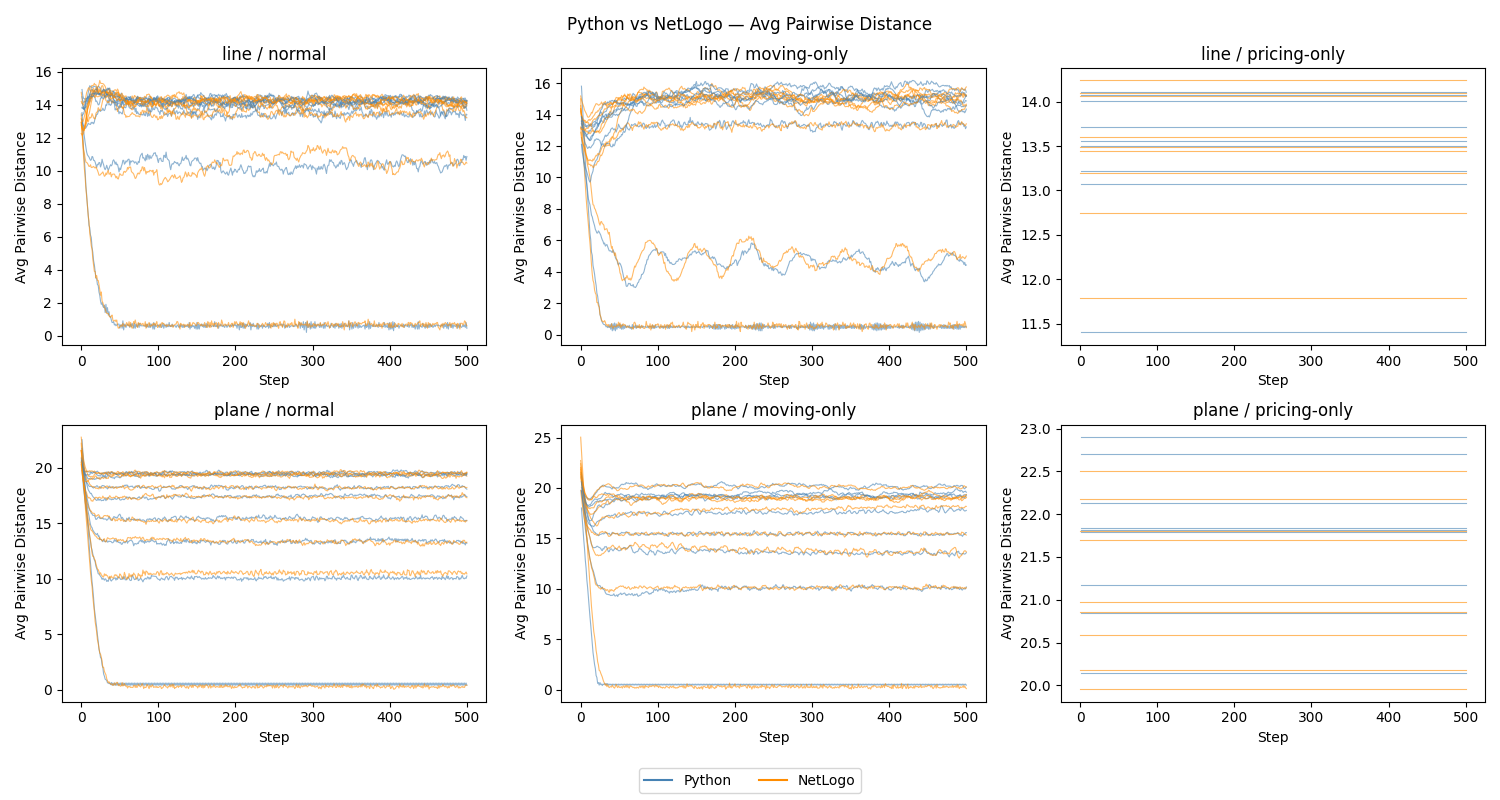
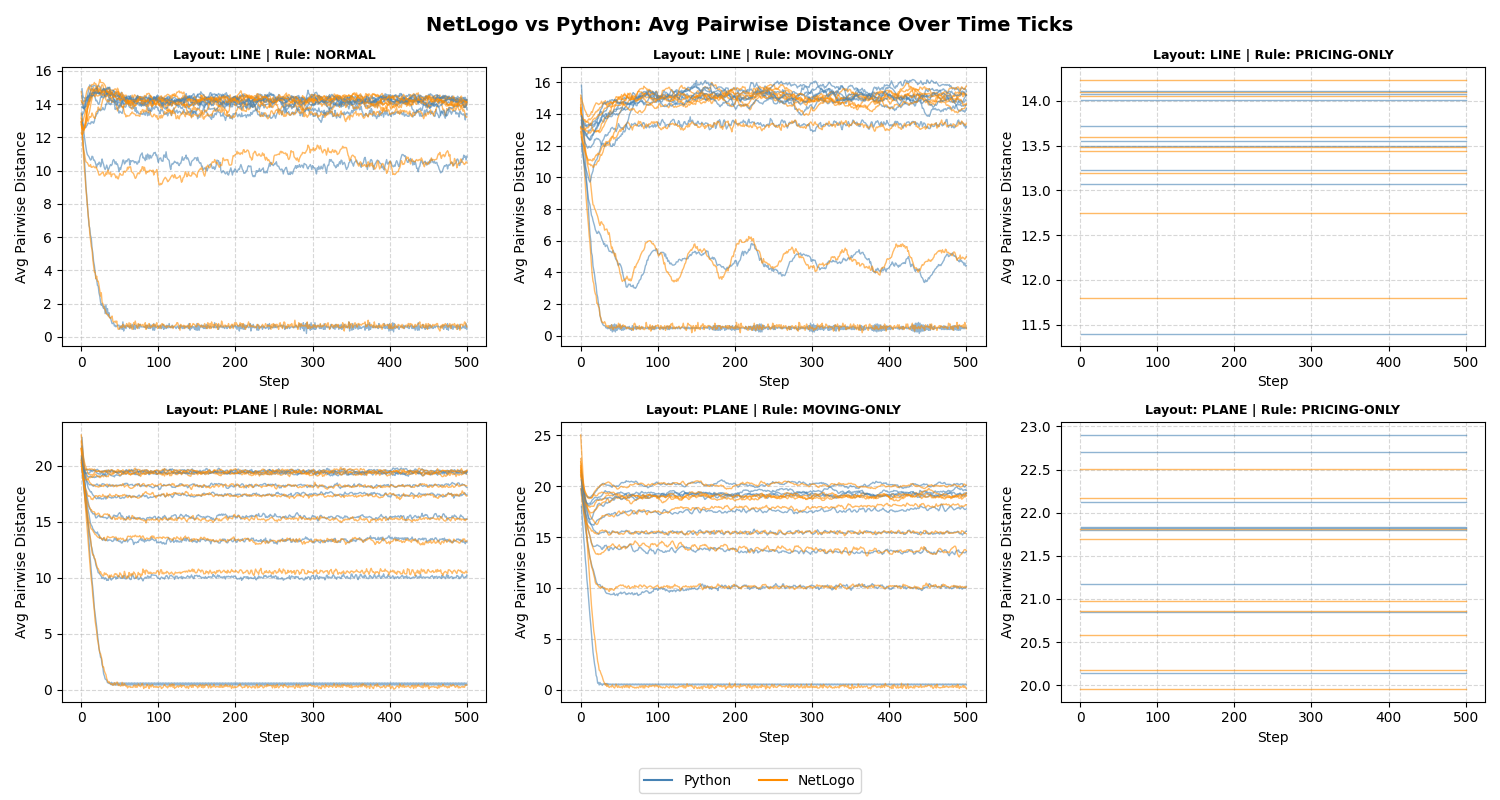
docs: clean up formatting of charts to be consistent

diff --git a/results/chart_generator_experiment1.py b/results/chart_generator_experiment1.py
@@ -53,7 +53,7 @@ def aggregate_metrics(df: pd.DataFrame) -> pd.DataFrame:
 def plot_experiment1(agg: pd.DataFrame, source_label: str):
     for metric, ylabel in [("avg_pairwise_dist", "Avg Pairwise Distance"), ("avg_price_diff", "Avg Pairwise Price Diff")]:
         fig, axes = plt.subplots(2, 3, figsize=(15, 8), sharey=False)
-        fig.suptitle(f"{source_label} — {ylabel} (Experiment 1)")
+        fig.suptitle(f"Python Replication: {ylabel} Over Time Ticks", fontsize=14, weight='bold')
 
         for row, layout in enumerate(LAYOUTS):
             for col, rule in enumerate(RULES):
@@ -62,10 +62,11 @@ def plot_experiment1(agg: pd.DataFrame, source_label: str):
                 for n in STORE_COUNTS:
                     run_data = subset[subset["number-of-stores"] == n]
                     ax.plot(run_data["[step]"], run_data[metric], label=f"{n} stores")
-                ax.set_title(f"{layout} / {rule}")
+                ax.set_title(f"Layout: {layout.upper()} | Rule: {rule.upper()}", fontsize=9, weight='semibold')
                 ax.set_xlabel("Step")
                 ax.set_ylabel(ylabel)
-                ax.legend(fontsize=6)
+                ax.grid(True, linestyle="--", alpha=0.5)
+                ax.legend(fontsize=7, loc="best")
 
         plt.tight_layout()
         filename = f"{source_label.lower().replace(' ', '_')}_{metric}.png"
@@ -77,7 +78,7 @@ def plot_experiment1(agg: pd.DataFrame, source_label: str):
 def plot_comparison(py_agg: pd.DataFrame, nl_agg: pd.DataFrame):
     for metric, ylabel in [("avg_pairwise_dist", "Avg Pairwise Distance"), ("avg_price_diff", "Avg Pairwise Price Diff")]:
         fig, axes = plt.subplots(2, 3, figsize=(15, 8), sharey=False)
-        fig.suptitle(f"Python vs NetLogo — {ylabel}")
+        fig.suptitle(f"NetLogo vs Python: {ylabel} Over Time Ticks", fontsize=14, weight='bold')
 
         for row, layout in enumerate(LAYOUTS):
             for col, rule in enumerate(RULES):
@@ -85,11 +86,12 @@ def plot_comparison(py_agg: pd.DataFrame, nl_agg: pd.DataFrame):
                 for n in STORE_COUNTS:
                     py_data = py_agg[(py_agg["layout"] == layout) & (py_agg["rules"] == rule) & (py_agg["number-of-stores"] == n)]
                     nl_data = nl_agg[(nl_agg["layout"] == layout) & (nl_agg["rules"] == rule) & (nl_agg["number-of-stores"] == n)]
-                    ax.plot(py_data["[step]"], py_data[metric], color="steelblue", alpha=0.6, linewidth=0.8)
-                    ax.plot(nl_data["[step]"], nl_data[metric], color="darkorange", alpha=0.6, linewidth=0.8)
-                ax.set_title(f"{layout} / {rule}")
+                    ax.plot(py_data["[step]"], py_data[metric], color="steelblue", alpha=0.6, linewidth=1.0)
+                    ax.plot(nl_data["[step]"], nl_data[metric], color="darkorange", alpha=0.6, linewidth=1.0)
+                ax.set_title(f"Layout: {layout.upper()} | Rule: {rule.upper()}", fontsize=9, weight='semibold')
                 ax.set_xlabel("Step")
                 ax.set_ylabel(ylabel)
+                ax.grid(True, linestyle="--", alpha=0.5)
 
         # shared legend
         handles = [
@@ -110,7 +112,7 @@ def plot_diff(py_agg: pd.DataFrame, nl_agg: pd.DataFrame):
 
     for metric, ylabel in [("diff_avg_pairwise_dist", "Difference in Avg Pairwise Distance"), ("diff_avg_price_diff", "Difference in Avg Pairwise Price Diff")]:
         fig, axes = plt.subplots(9, 2, figsize=(8, 10), sharex='col', sharey=False)
-        fig.suptitle(f"Python vs NetLogo — {ylabel}")
+        fig.suptitle(f"NetLogo vs Python: {ylabel} Over Time Ticks", fontsize=14, weight='bold')
         fig.supylabel(ylabel)
 
         for row, n in enumerate(STORE_COUNTS):
@@ -120,18 +122,21 @@ def plot_diff(py_agg: pd.DataFrame, nl_agg: pd.DataFrame):
                 ax.axhline(0, color='black', alpha=0.5, linestyle='-') 
                 ax.set_ylim(-3, 3)
                 ax.set_xlim(0, 500)
-                ax.set_title(f"{n} stores / {layout}")
+                ax.set_title(f"Layout: {layout.upper()} | Num Stores: {n}", fontsize=9, weight='semibold')
 
                 # Plot data
                 diff_data = diff_agg[(diff_agg["layout"] == layout) & (diff_agg["number-of-stores"] == n)]
                 normal_data = diff_data[diff_data["rules"] == "normal"]
-                ax.plot(normal_data["[step]"], normal_data[metric], label="normal", linewidth=0.8, color="steelblue")
+                ax.plot(normal_data["[step]"], normal_data[metric], label="normal", linewidth=1.0, color="steelblue")
+                ax.grid(True, linestyle="--", alpha=0.5)
                 if metric == "diff_avg_pairwise_dist":
                     moving_only_data = diff_data[diff_data["rules"] == "moving-only"]
-                    ax.plot(moving_only_data["[step]"], moving_only_data[metric], label="moving-only", linewidth=0.8, color="darkorange")
+                    ax.plot(moving_only_data["[step]"], moving_only_data[metric], label="moving-only", linewidth=1.0, color="darkorange")
+                    ax.grid(True, linestyle="--", alpha=0.5)
                 if metric == "diff_avg_price_diff":
                     pricing_only_data = diff_data[diff_data["rules"] == "pricing-only"]
-                    ax.plot(pricing_only_data["[step]"], pricing_only_data[metric], label="pricing-only", linewidth=0.8, color="darkgreen")
+                    ax.plot(pricing_only_data["[step]"], pricing_only_data[metric], label="pricing-only", linewidth=1.0, color="darkgreen")
+                    ax.grid(True, linestyle="--", alpha=0.5)
 
                 if (n == 10):
                     ax.set_xlabel("Step")

diff --git a/results/chart_generator_experiment2.py b/results/chart_generator_experiment2.py
@@ -148,7 +148,7 @@ def plot_time_series_metrics(df: pd.DataFrame):
 
     for column_key, ylabel, filename in targets:
         fig, axes = plt.subplots(2, 3, figsize=(16, 9))
-        fig.suptitle(f"Evolution Tracking Profile: {ylabel} Over Time Ticks", fontsize=14, weight='bold')
+        fig.suptitle(f"Chain Behaviour Extension: {ylabel} Over Time Ticks", fontsize=14, weight='bold')
 
         for r_idx, layout in enumerate(LAYOUTS):
             for c_idx, rule in enumerate(RULES):
@@ -161,7 +161,7 @@ def plot_time_series_metrics(df: pd.DataFrame):
                         continue
                     ax.plot(config_data["[step]"], config_data[column_key], label=config, linewidth=1.5)
                 
-                ax.set_title(f"Layout: {layout.upper()} | Strategy: {rule.upper()}", fontsize=9, weight='semibold')
+                ax.set_title(f"Layout: {layout.upper()} | Rule: {rule.upper()}", fontsize=9, weight='semibold')
                 ax.set_xlabel("Ticks", fontsize=8)
                 ax.set_ylabel(ylabel, fontsize=8)
                 ax.grid(True, linestyle="--", alpha=0.5)
